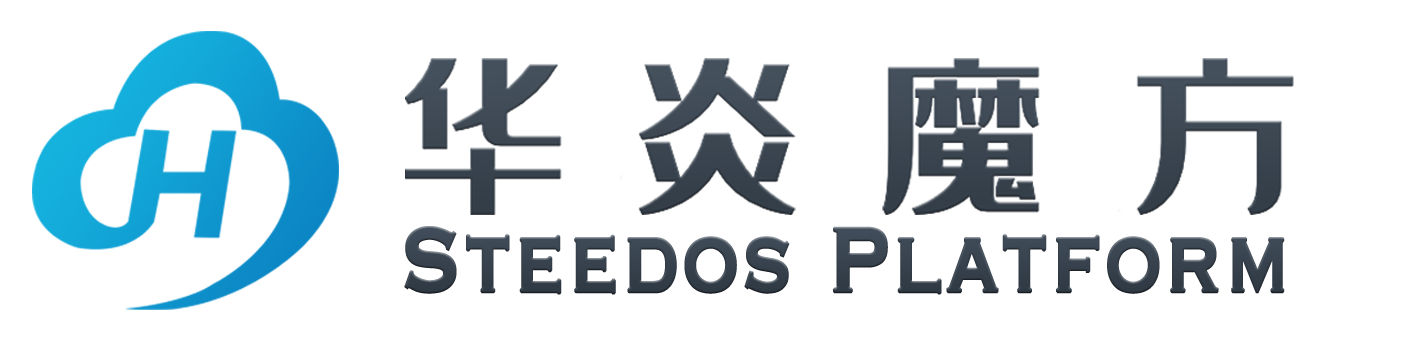
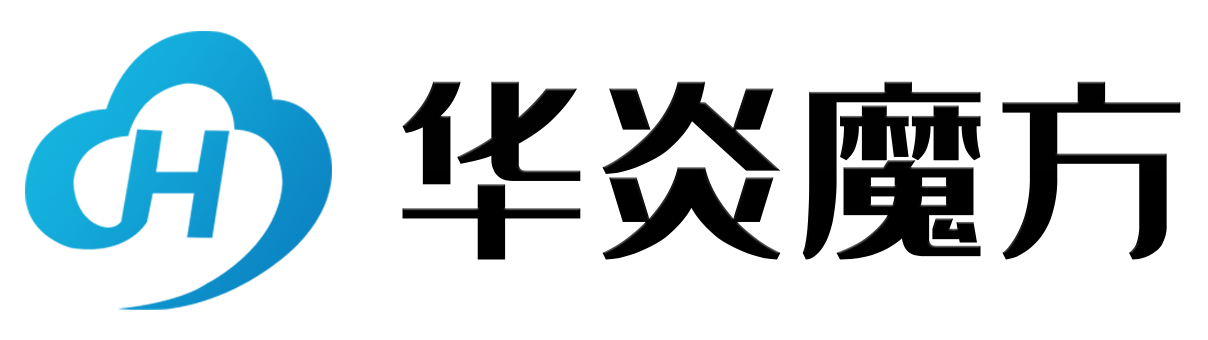
替换logo

diff --git a/website/src/css/custom.css b/website/src/css/custom.css
@@ -56,7 +56,7 @@
 }
 
 a:hover {
-  opacity: 0.75
+  opacity: 0.9
 }
 
 /* .markdown a {
@@ -149,3 +149,12 @@ html[data-theme='dark'] .navbar{
   }
 }
 
+.navbar__brand {
+  height: 40px;
+  opacity: .8;
+}
+
+.navbar__brand:hover {
+  height: 40px;
+  opacity: 1;
+}
